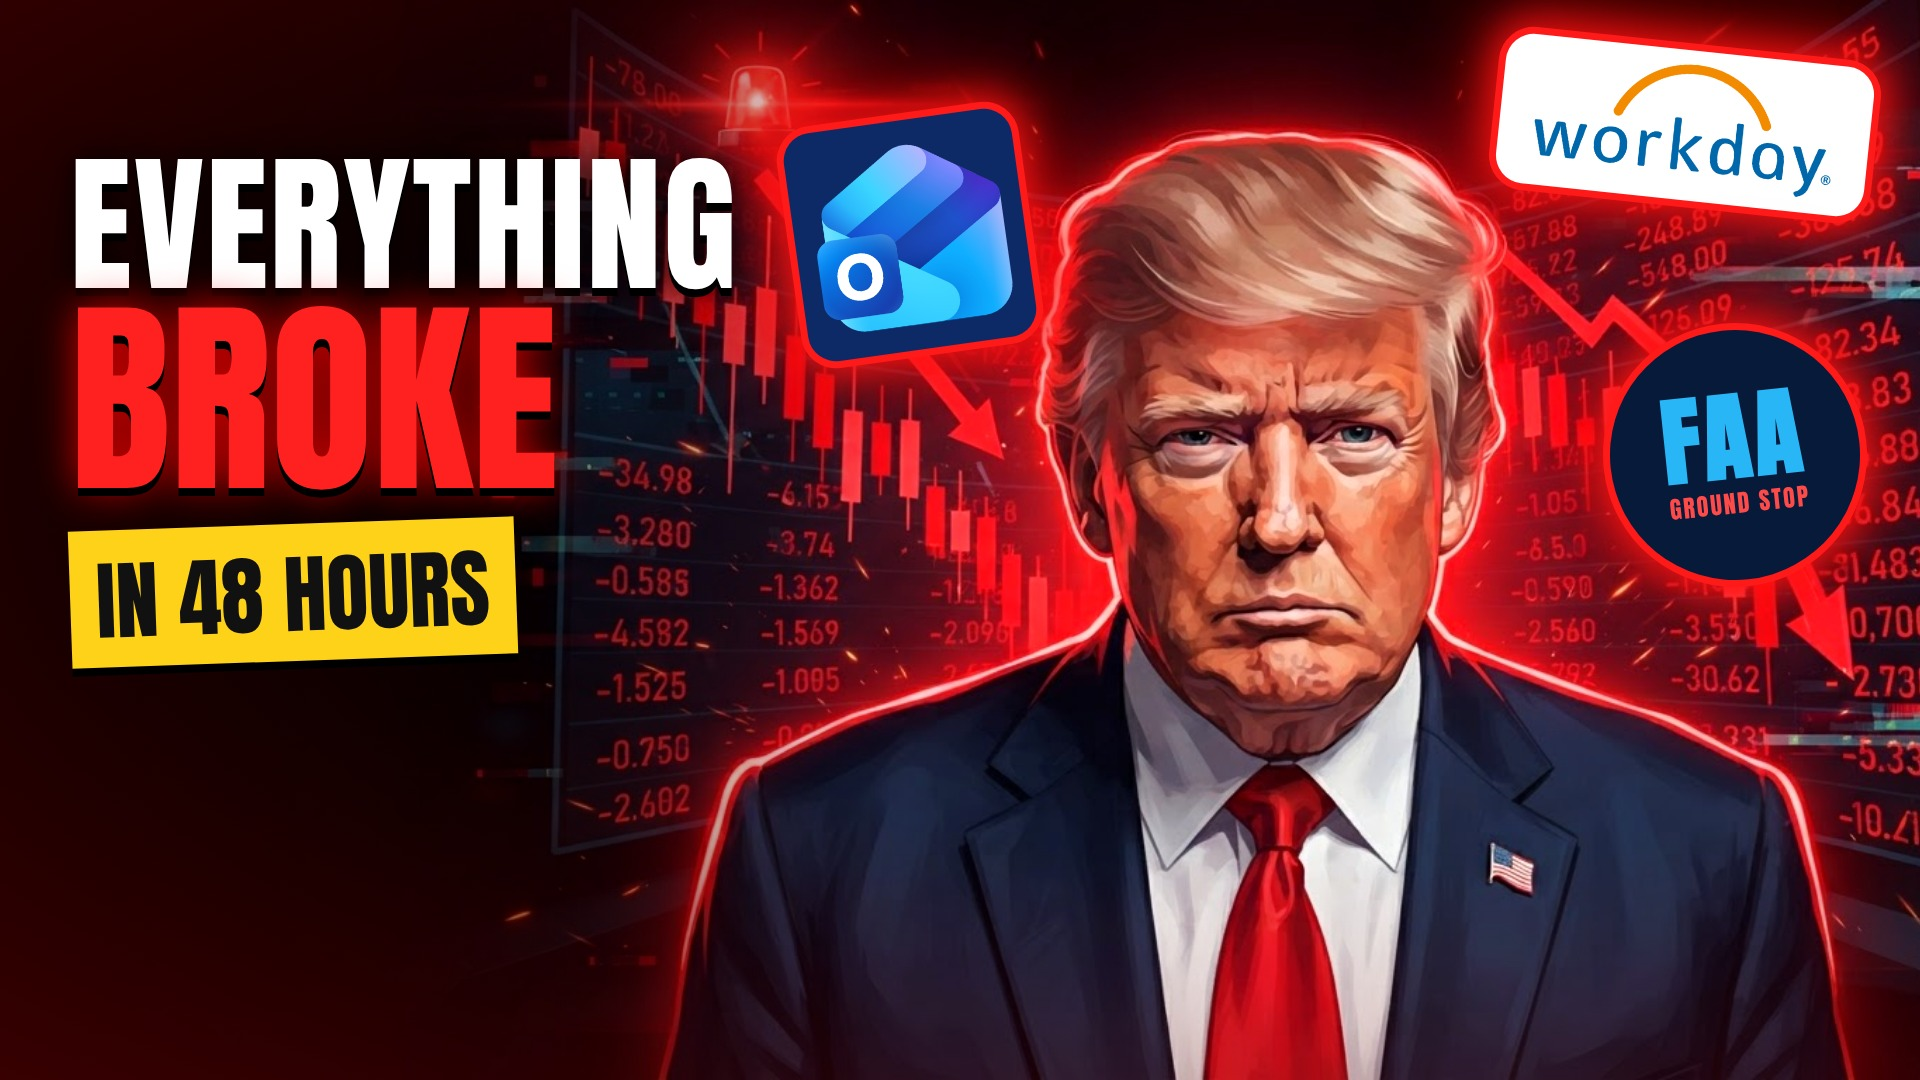
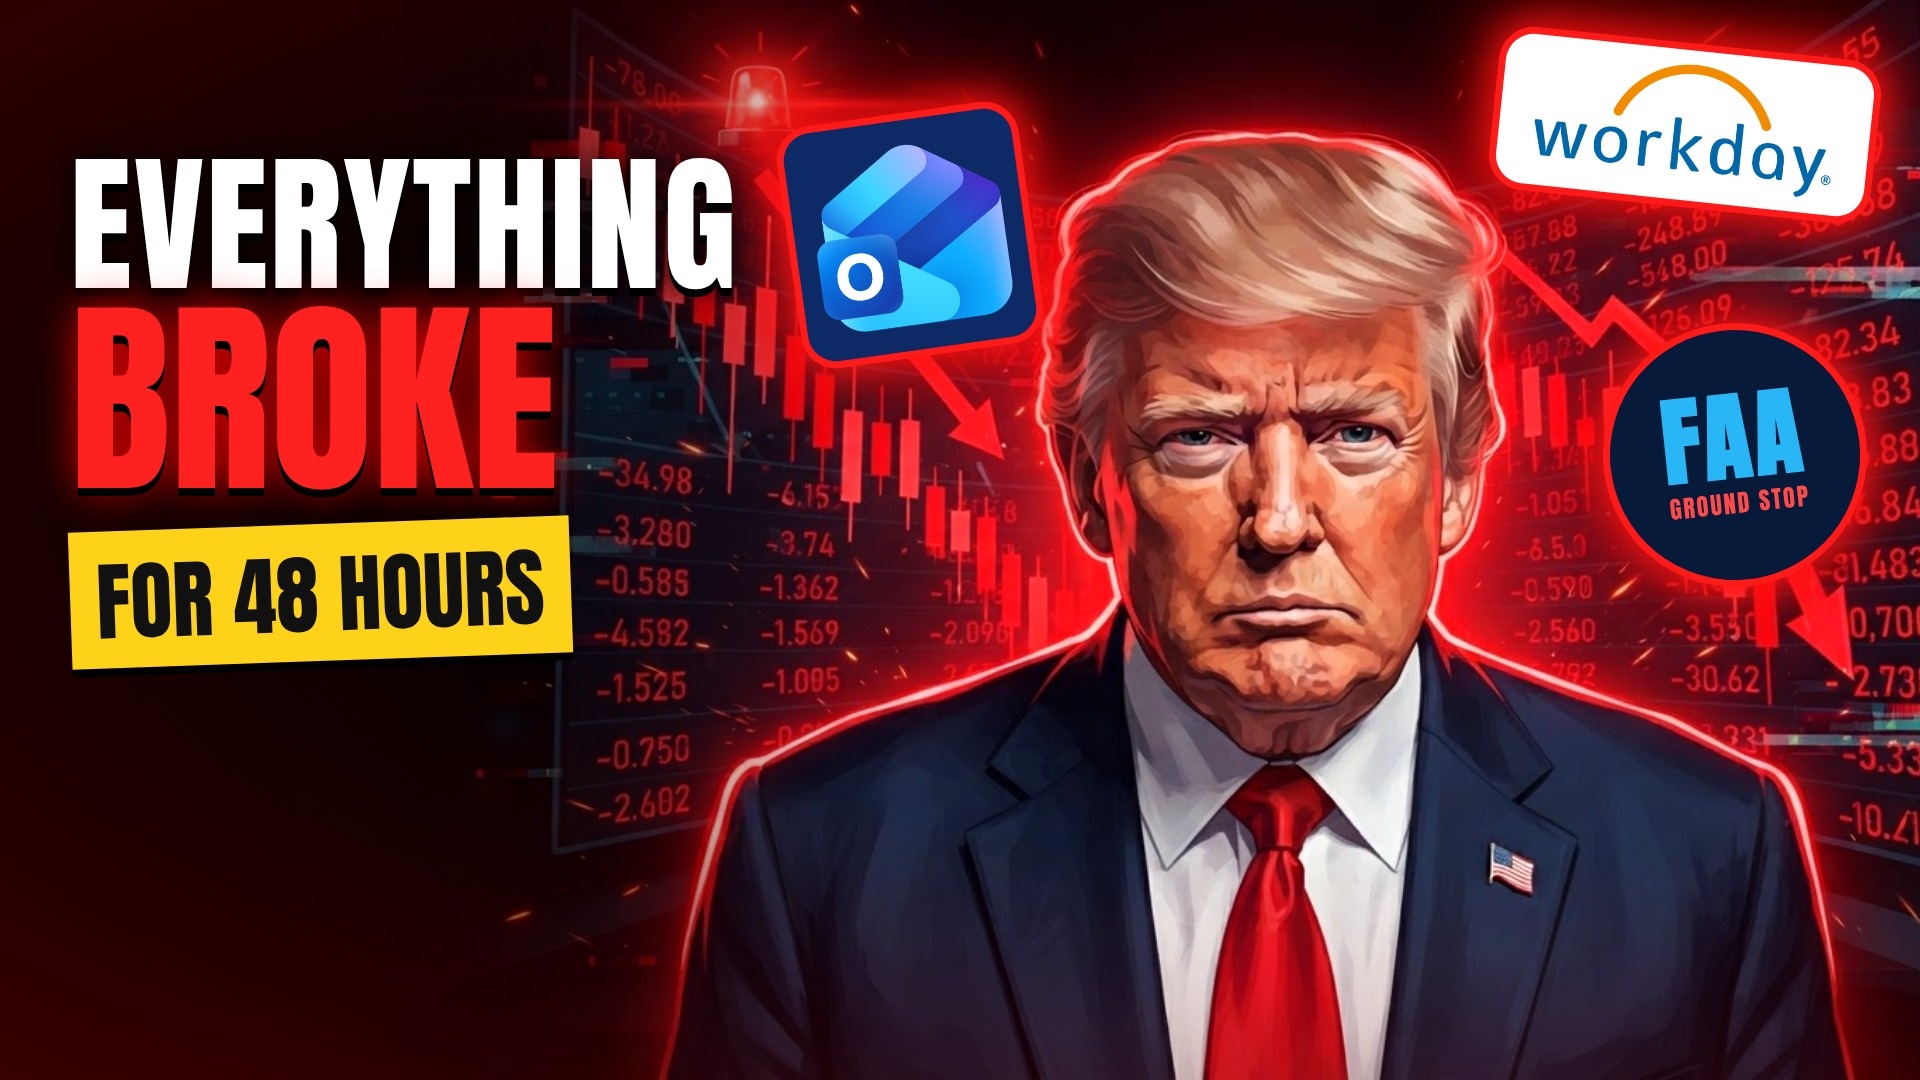
Finance 04: booked 15 Nov 09:30 UTC on Finance + Stormi, handover
Claude-Session: https://claude.ai/code/session_01CFreaQYtwJPTzAQJyovkUC

Changed region(s): [[0.0312, 0.4583, 0.3125, 0.6111]]

diff --git a/finance-with-stromi/Videos/04 The 48-Hour Blackout/04 Build Files/thumb2/t.html b/finance-with-stromi/Videos/04 The 48-Hour Blackout/04 Build Files/thumb2/t.html
@@ -16,5 +16,5 @@ body{margin:0;width:1920px;height:1080px;overflow:hidden;background:#000;font-fa
 <div class="logo" style="left:795px;top:120px;width:230px;height:230px;--r:-8deg;background:#0d2a66"><img src="outlook.webp" style="width:190px"></div>
 <div class="logo" style="left:1500px;top:50px;width:370px;height:150px;--r:6deg"><img src="workday.png" style="width:320px"></div>
 <div class="faa" style="left:1610px;top:330px;--r:-6deg"><b>FAA</b><i>GROUND STOP</i></div>
-<div id="t"><div class="w">EVERYTHING</div><div class="r">BROKE</div><div class="box">IN 48 HOURS</div></div>
+<div id="t"><div class="w">EVERYTHING</div><div class="r">BROKE</div><div class="box">FOR 48 HOURS</div></div>
 </body></html>

diff --git a/finance-with-stromi/Videos/04 The 48-Hour Blackout/05 Production/HANDOVER.md b/finance-with-stromi/Videos/04 The 48-Hour Blackout/05 Production/HANDOVER.md
@@ -1,0 +1,10 @@
+# HANDOVER: Finance with Stromi 04, The 48-Hour Blackout
+
+- Booked (Pushpam 15 Nov 08:17 UTC: "schedule today earliest, both channels, push other videos"):
+  - Finance with Stromi YouTube: 15 Nov 2026 09:30 UTC, Zernio (Finance key) post 6af96ba584e2b933caf242b5
+  - Stormi Explains YouTube: 15 Nov 2026 09:30 UTC, Zernio (MCP) post 6af96bdd84e2b933caf24452
+- Pushed to make room: Finance "Frozen Market" 15 Nov 16:00 -> 16 Nov 16:00 UTC (6af78ba1520002efab9f6a38); Stormi "History of Nvidia" 15 Nov 16:00 -> 16 Nov 16:00 UTC (6ae3a4416237e348008ee0ea).
+- Title: "Email, Flights and Payroll All Broke in 48 Hours. Why?" Thumbnail v2 (stylized Trump, outage logos, "EVERYTHING BROKE FOR 48 HOURS"), ElevenLabs gemini-3.1-flash-lite-image edit, 309 credits; v1 kept as thumb_v1.jpg.
+- Full video 16:14 1080p, Drive 03 Renders id 18u-2zqYUInn8cnmPfHL7tYhuJHcUt1W6. Build in 04 Build Files (repo branch claude/project-thread-15ddjk + Drive). QA note in qa/QA-NOTE.md.
+- Not made: reels / shorts.
+- Lessons: acts render at 1280x720, combine.sh upscales to 1080p (lanczos). mg02 bars card now widens for >3 bars. Finance zernio.sh takes a FILE path as body.
